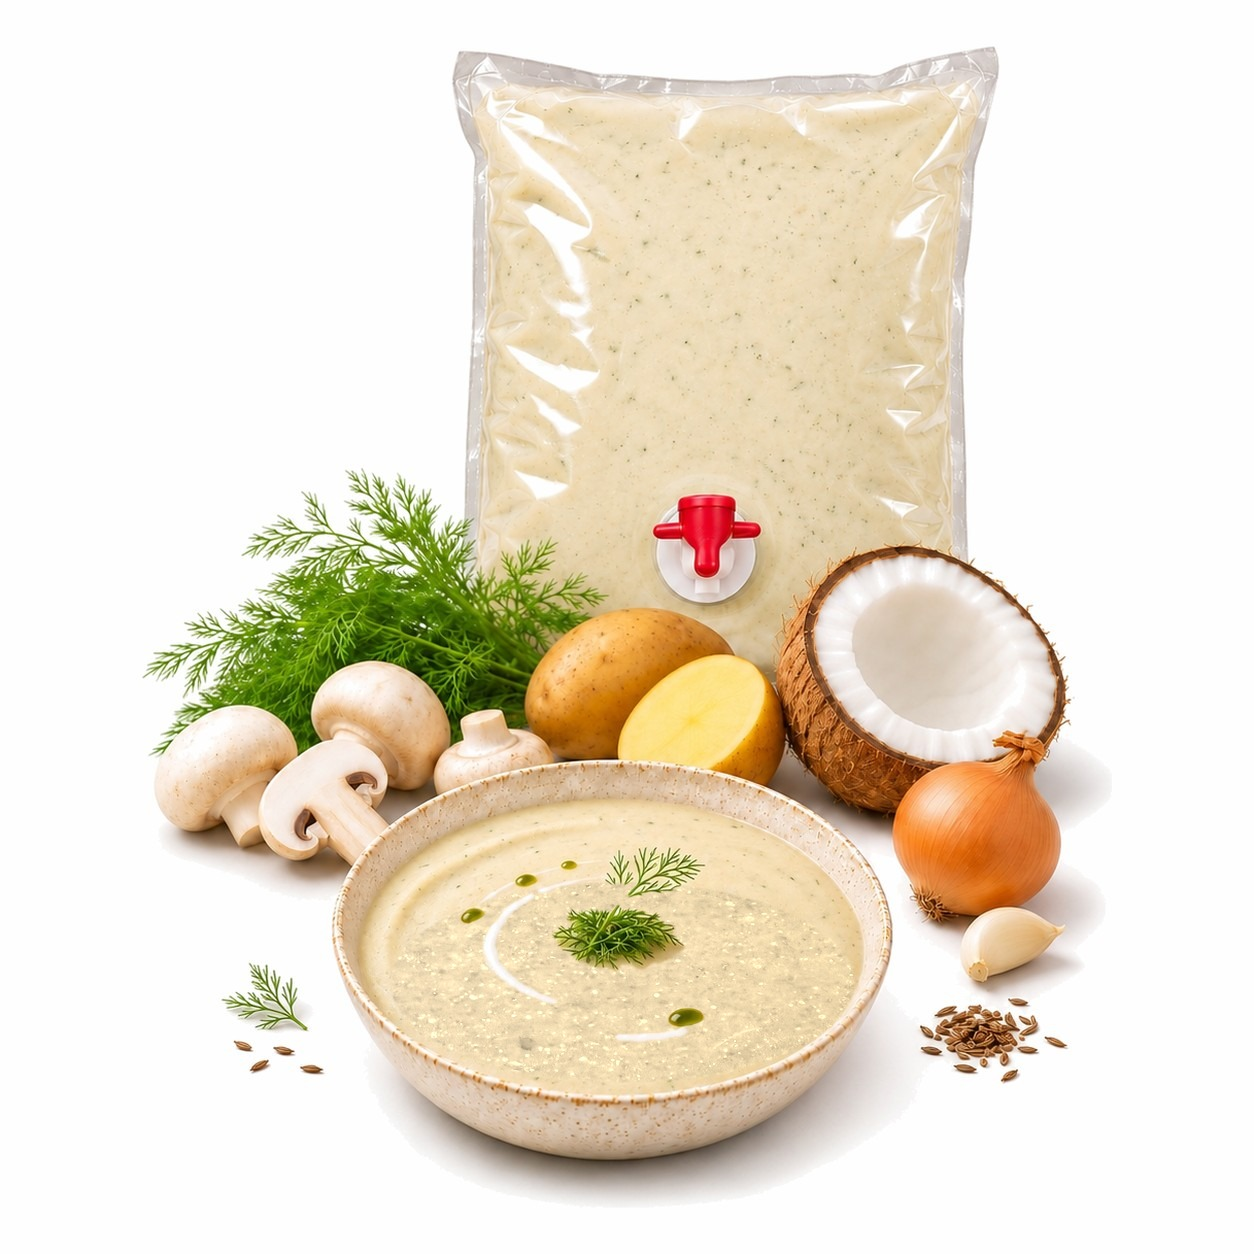
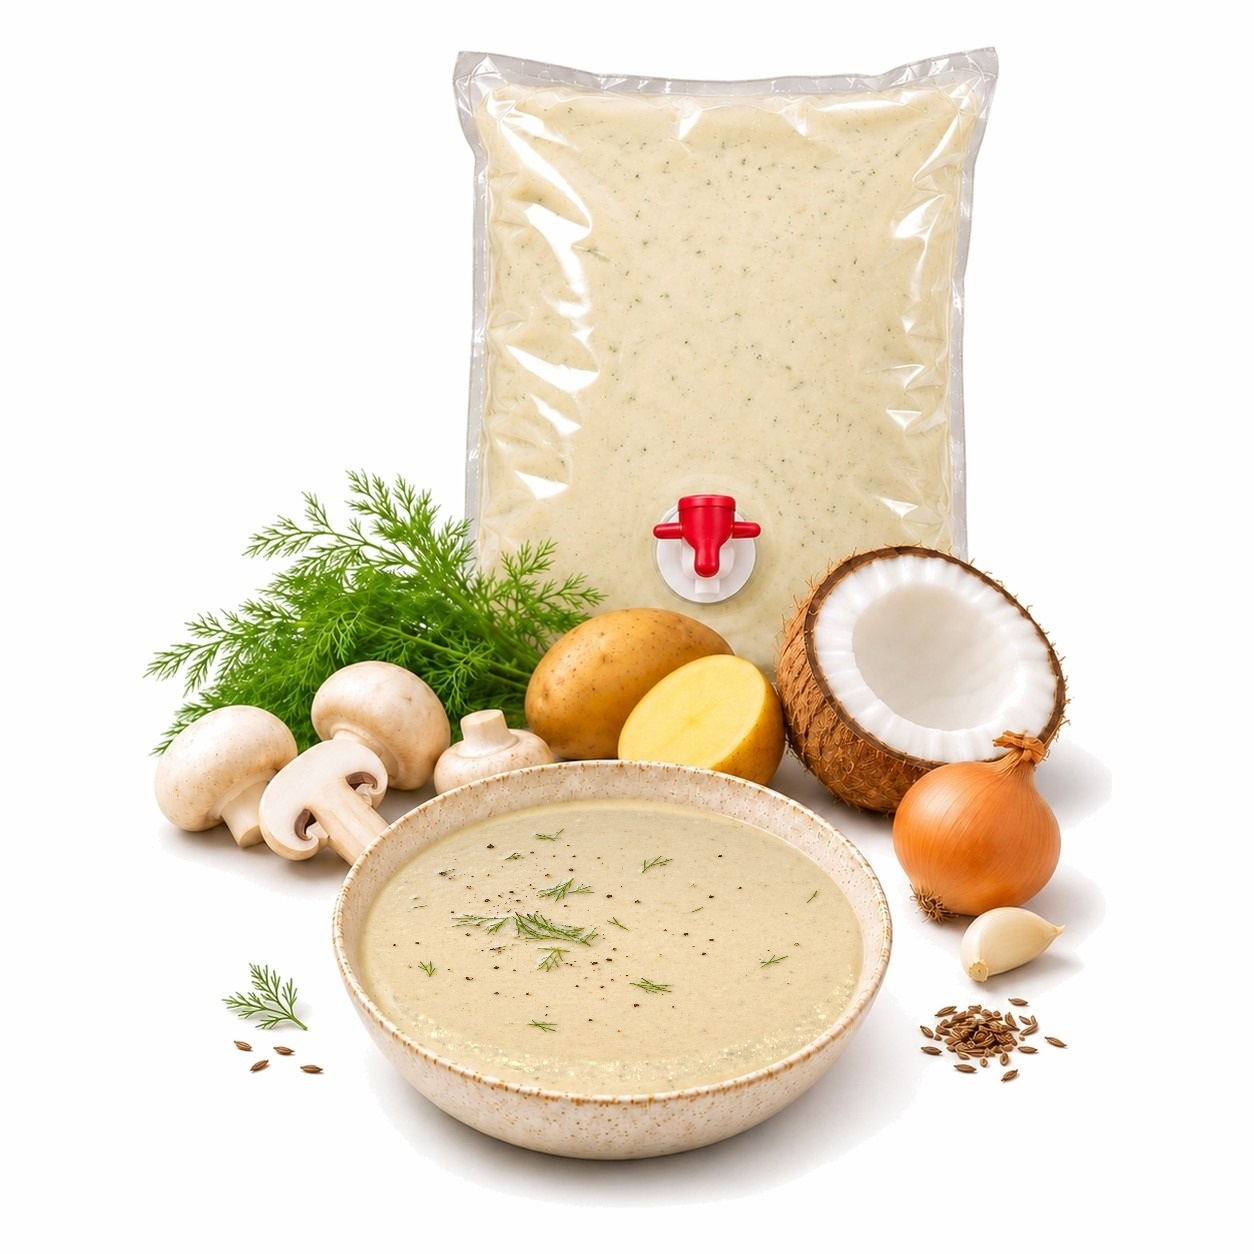
Kulajda: hlavní fotka shora, fotka s beginou se stejnou hladinou
Claude-Session: https://claude.ai/code/session_016QL8fyP6fDGx2RMwKgd8AU

Changed region(s): [[0.311, 0.622, 0.5909, 0.8397], [0.5909, 0.7464, 0.622, 0.7775]]

diff --git a/dashboard/lib/eshop/productImages.ts b/dashboard/lib/eshop/productImages.ts
@@ -35,6 +35,8 @@ const BACKDROP: Record<string, string> = {
   "/eshop/polevky/gulasova-polevka-z-hlivy-ustricne-miska-v6.jpg": "#fefefe",
   "/eshop/polevky/gulasova-polevka-z-hlivy-ustricne-begina-v6.jpg": "#fefefe",
   "/eshop/polevky/kulajda-begina-v3.jpg": "#fefefe",
+  "/eshop/polevky/kulajda-miska-v6.jpg": "#fefefe",
+  "/eshop/polevky/kulajda-begina-v6.jpg": "#fefefe",
   "/eshop/polevky/dynova-polevka-begina-v3.jpg": "#fefefe",
   "/eshop/polevky/rajcatova-polevka-begina-v3.jpg": "#fefefe",
   "/eshop/polevky/rajcatova-polevka-s-cervenou-repou-begina-v3.jpg": "#fefefe",
